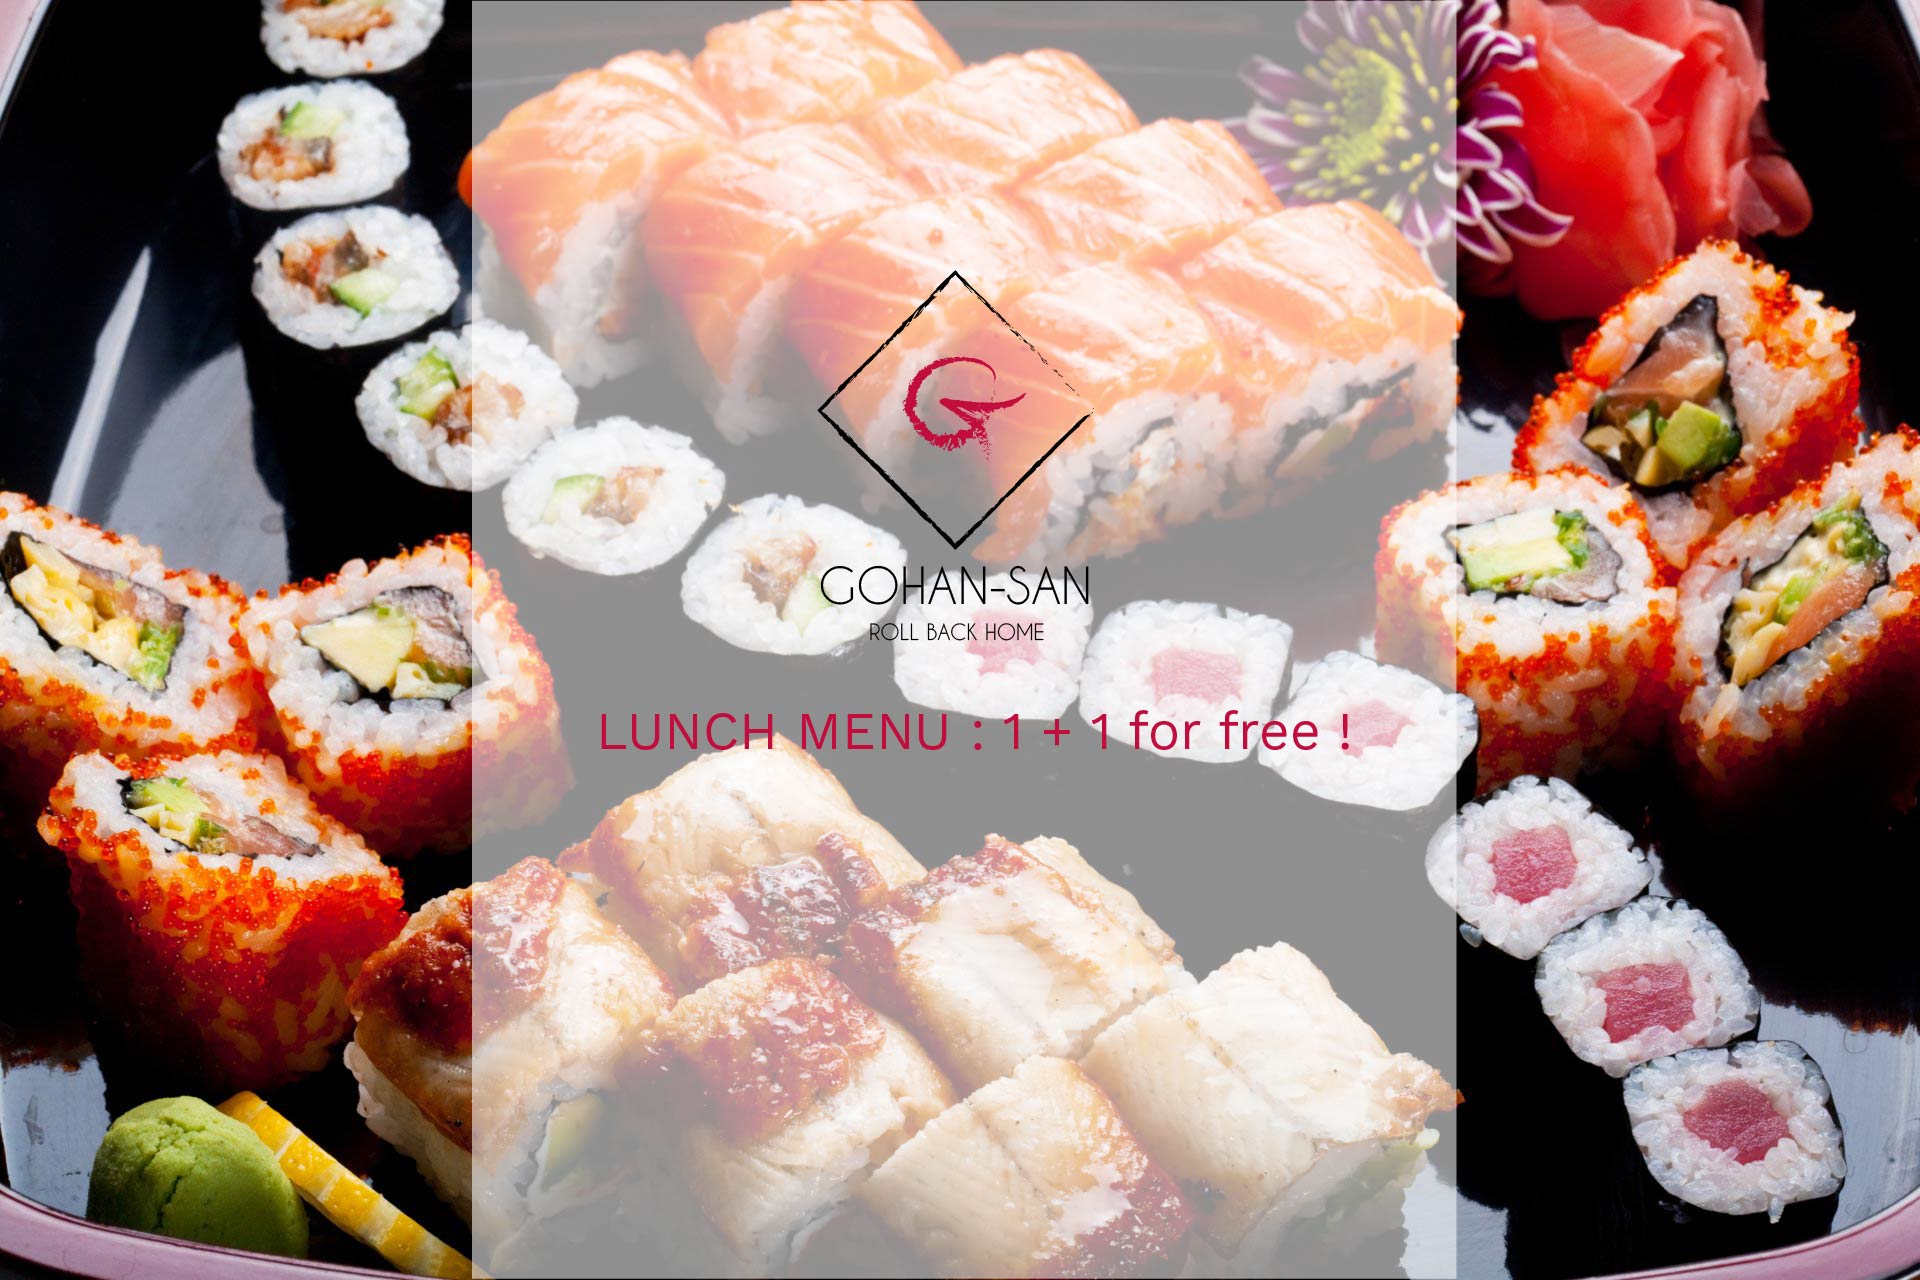
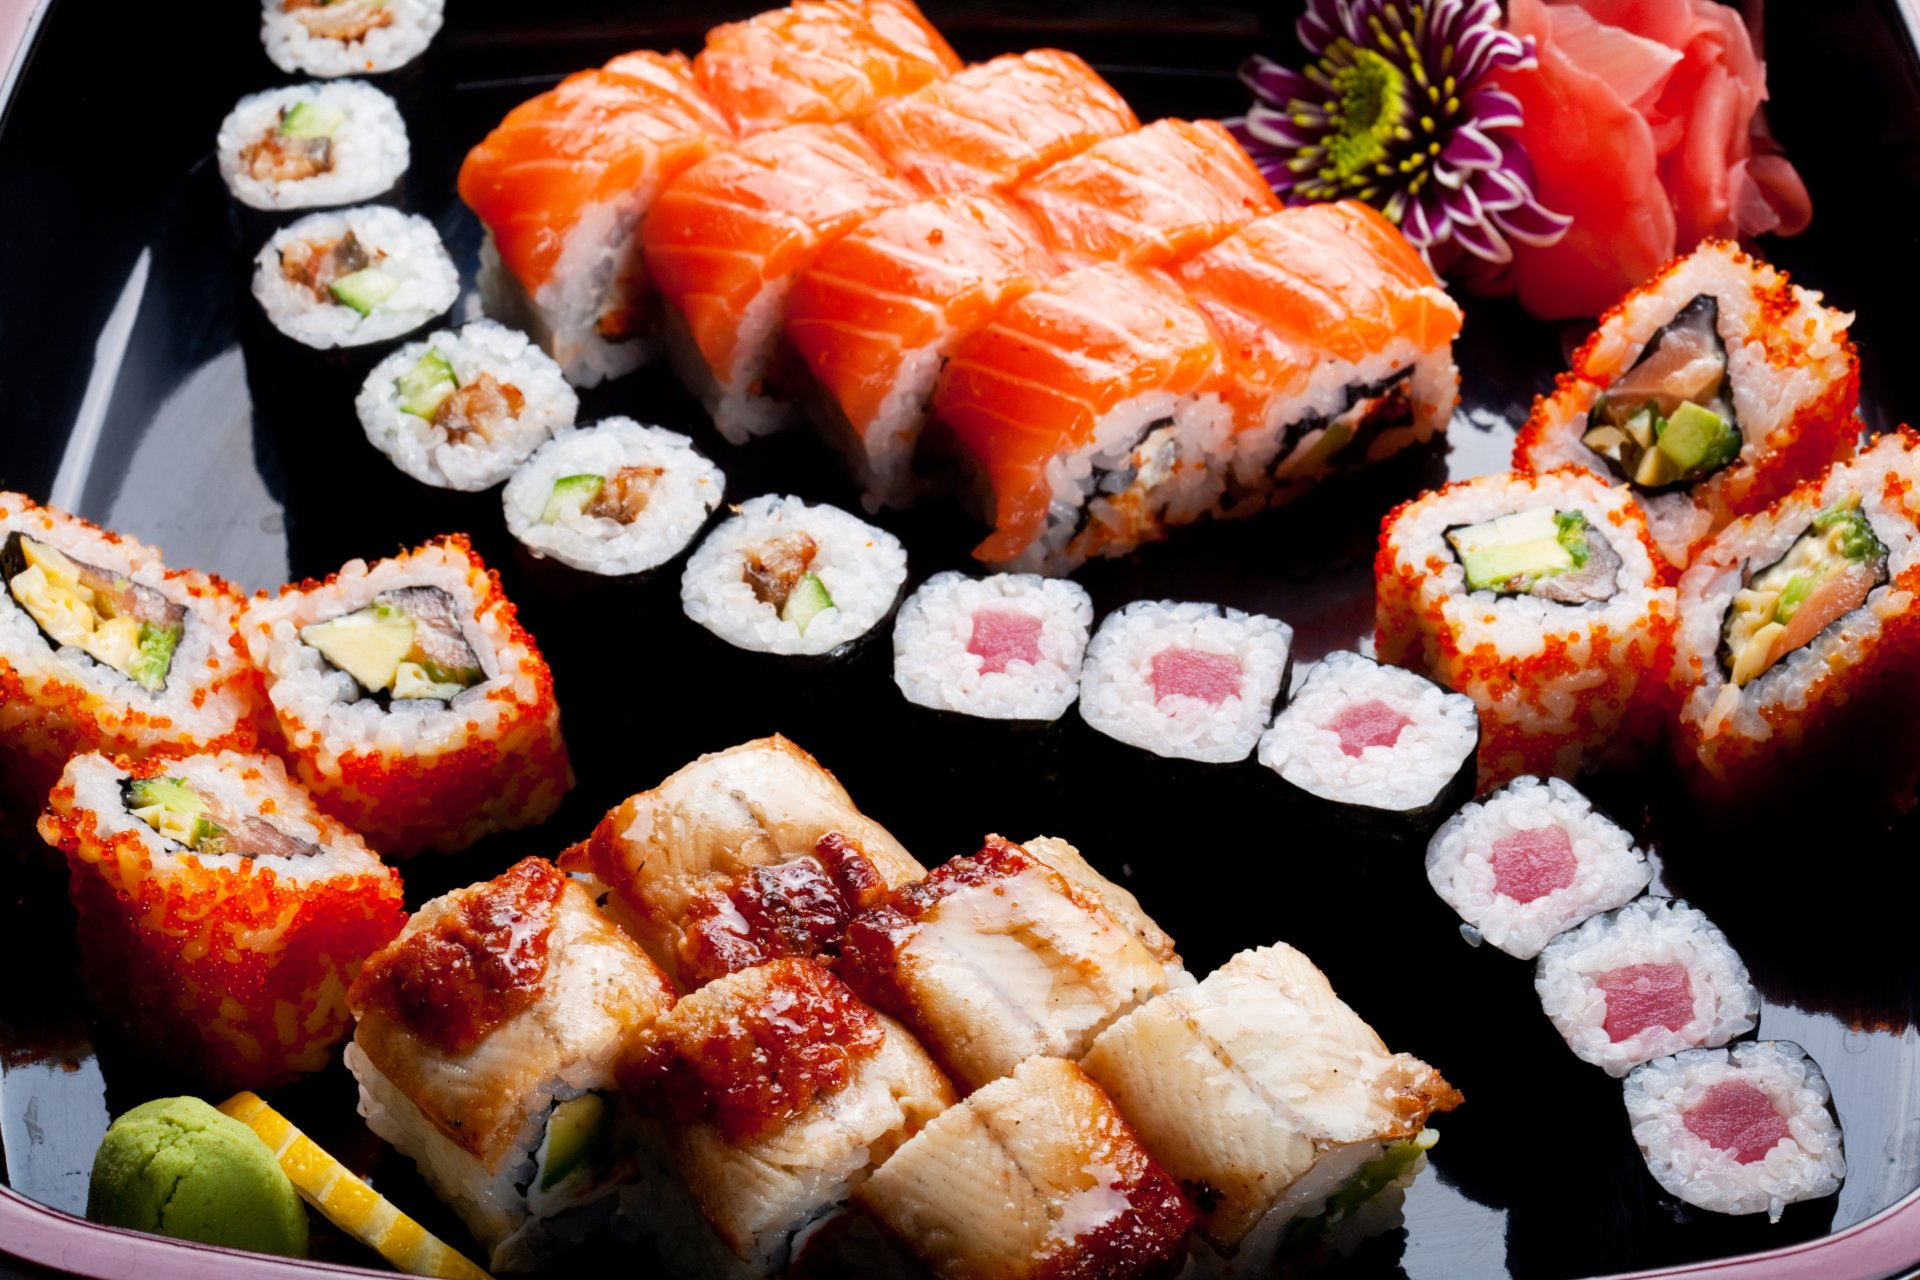
new changes

diff --git a/index/index.html b/index/index.html
@@ -54,8 +54,8 @@
             </nav>
         </header>
 
-        <!--JUMBOTRON-->
-        <!--<div class="jumbotron text-center">
+        <!--JUMBOTRON
+        <div class="jumbotron text-center">
             <div class="intro">
                 <img src="assets/logo.png" alt="logo" />
                 <h1>GOHAN-SAN</h1>
@@ -75,19 +75,19 @@
 
             <div class="carousel-inner">
                 <div class="carousel-item active">
-                    <img src="assets/jumbotron/sushi1.jpg" class="d-block w-100" alt="sushi" />  
+                    <img src="assets/jumbotron/sushi1.jpg" class="d-block w-100 img-fluid" alt="sushi" />  
                 </div>
 
                 <div class="carousel-item">
-                    <img src="assets/jumbotron/sushi2.jpg" class="d-block w-100" alt="sushi">
+                    <img src="assets/jumbotron/sushi2.jpg" class="d-block w-100 img-fluid" alt="sushi">
                 </div>
 
                 <div class="carousel-item">
-                    <img src="assets/jumbotron/sushi3.jpg" class="d-block w-100" alt="sushi">
+                    <img src="assets/jumbotron/sushi3.jpg" class="d-block w-100 img-fluid" alt="sushi">
                 </div>
 
                 <div class="carousel-item">
-                    <img src="assets/jumbotron/sushi4.jpg" class="d-block w-100" alt="sushi">
+                    <img src="assets/jumbotron/sushi4.jpg" class="d-block w-100 img-fluid" alt="sushi">
                 </div>
                 
             </div>
@@ -103,9 +103,19 @@
 
         <!--FOOTER-->
         <footer class="bg-light text-center text-lg-start">
-          <div class="text-center p-3">
-            <button type="button" class="btn btn-light">Contact us</button>
-          </div>
+            <div class="col-lg-6 col-md-12 mb-4 mb-md-0">     
+                <a href="#!" class="text-dark"><i class="fab fa-instagram"></i></a>
+            </div>
+
+            <div class="col-lg-6 col-md-12 mb-4 mb-md-0"> 
+                <a href="#!" class="text-dark"></a><i class="fab fa-facebook-square"></i></a>
+            </div>
+
+            <div class="text-center p-3">
+                <a href="#!" class="linkFooter text-dark">Contact us</a>
+                <a href="#!" class="text-dark"><img class="socialNetworks" src="assets/socialNetworks/fb.png" alt="facebook logo" /></a>
+                <a href="#!" class="text-dark"><img class="socialNetworks" src="assets/socialNetworks/instagram.png" alt="instagram logo" /></a>
+            </div>
 
           <div class="text-center p-3" style="background-color: ##F8F9FA">
             © 2020 Copyright. GOHAN-SAN

diff --git a/index/style.scss b/index/style.scss
@@ -67,7 +67,38 @@ a
     }
 }*/
 
+.linkFooter {
+    text-decoration: none;
+  }
+
+.socialNetworks
+{
+    width: 40px;
+}
+
 #carouselCaptions
 {
     margin-top: 75px;
+}
+
+// MEDIA QUERIES
+
+@media only screen and (max-width: 1199px)
+{
+
+}
+
+@media only screen and (max-width: 991px)
+{
+    
+}
+
+@media only screen and (max-width: 767px)
+{
+    
+}
+
+@media only screen and (max-width: 575px)
+{
+    
 }

diff --git a/index/style.css b/index/style.css
@@ -49,6 +49,14 @@ a {
         line-height: 1.5em;
     }
 }*/
+.linkFooter {
+  text-decoration: none;
+}
+
+.socialNetworks {
+  width: 40px;
+}
+
 #carouselCaptions {
   margin-top: 75px;
 }
